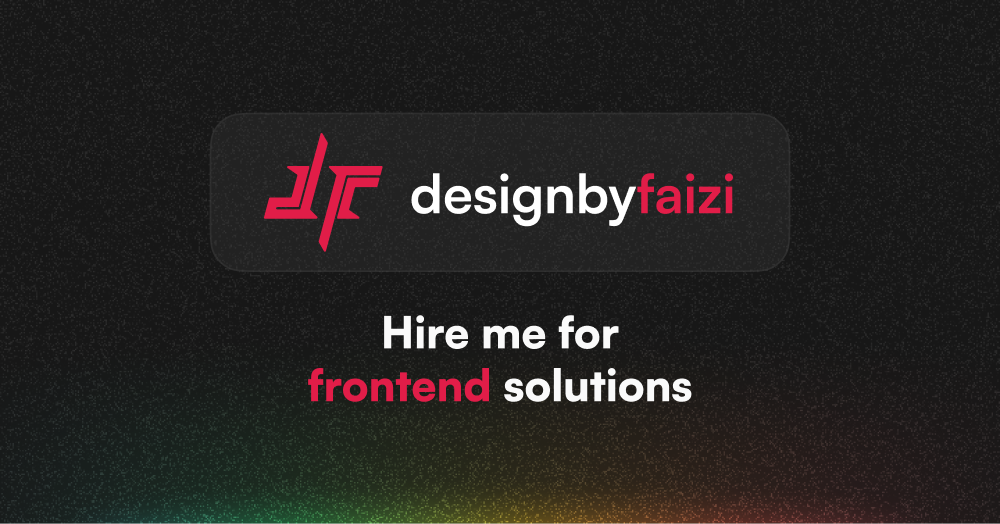
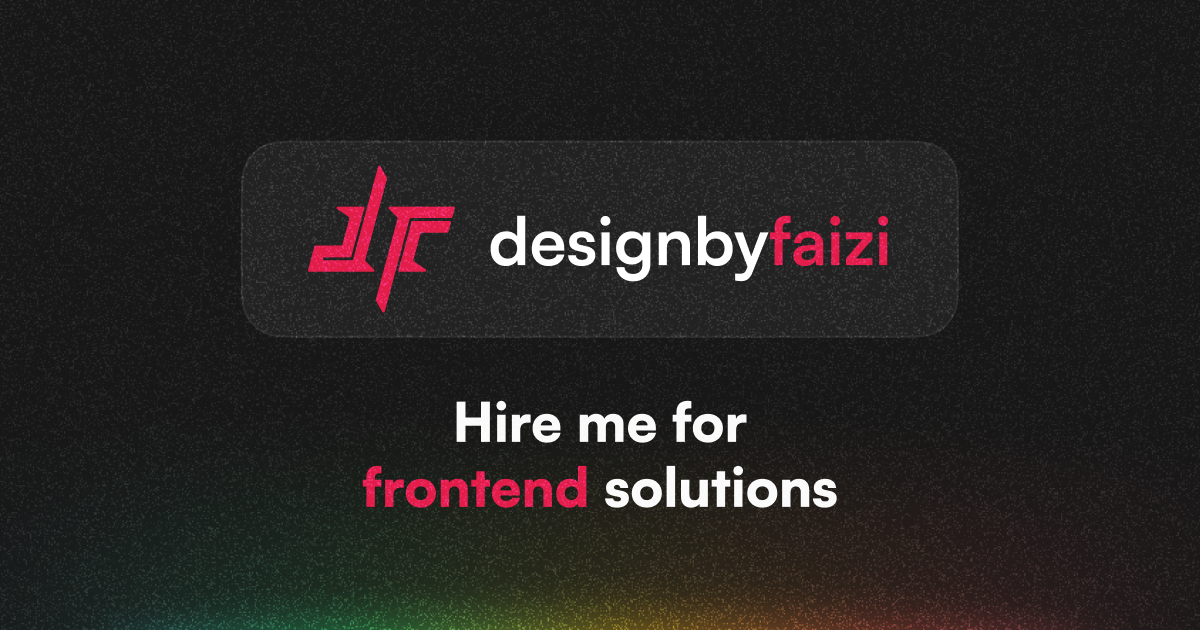
style: separated og and twitter image

Changed region(s): [[0.279, 0.5802, 0.713, 0.8244], [0.248, 0.2443, 0.744, 0.4885], [0.062, 0.9466, 0.93, 1.0]]

diff --git a/pages/index.vue b/pages/index.vue
@@ -183,7 +183,7 @@ useHead({
     },
     {
       property: "twitter:image",
-      content: `${config.public.SITE_URL}/og.png`,
+      content: `${config.public.SITE_URL}/twitter.png`,
     },
     { property: "twitter:card", content: "summary_large_image" },
     { property: "twitter:creator", content: "@designbyfaizi" },
